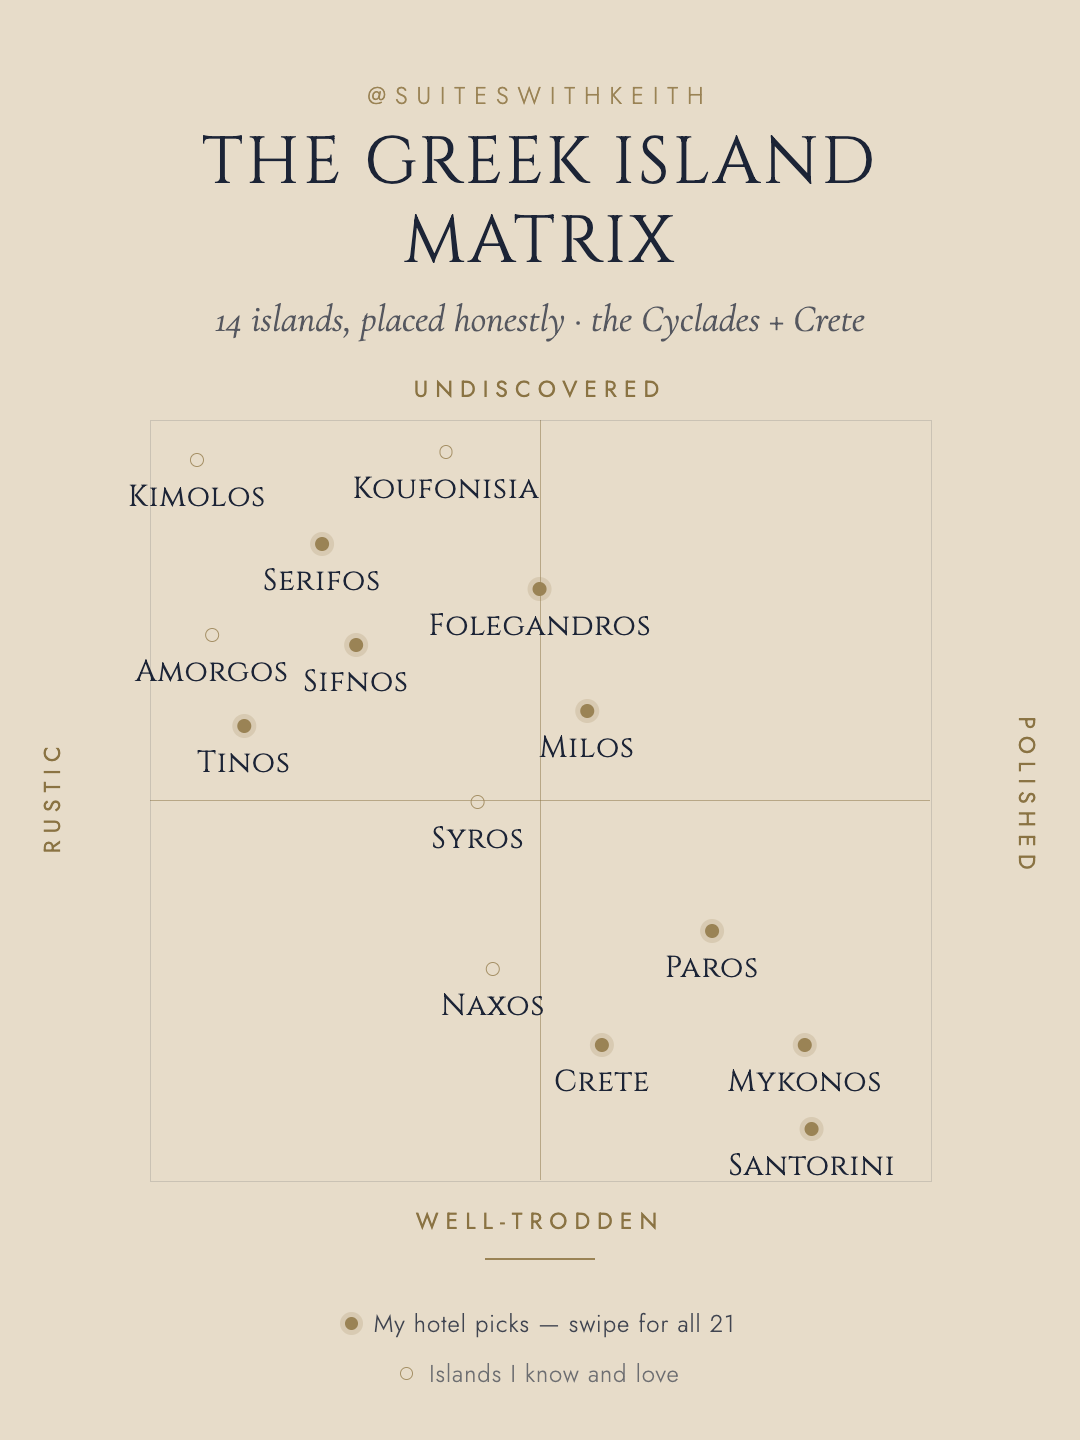
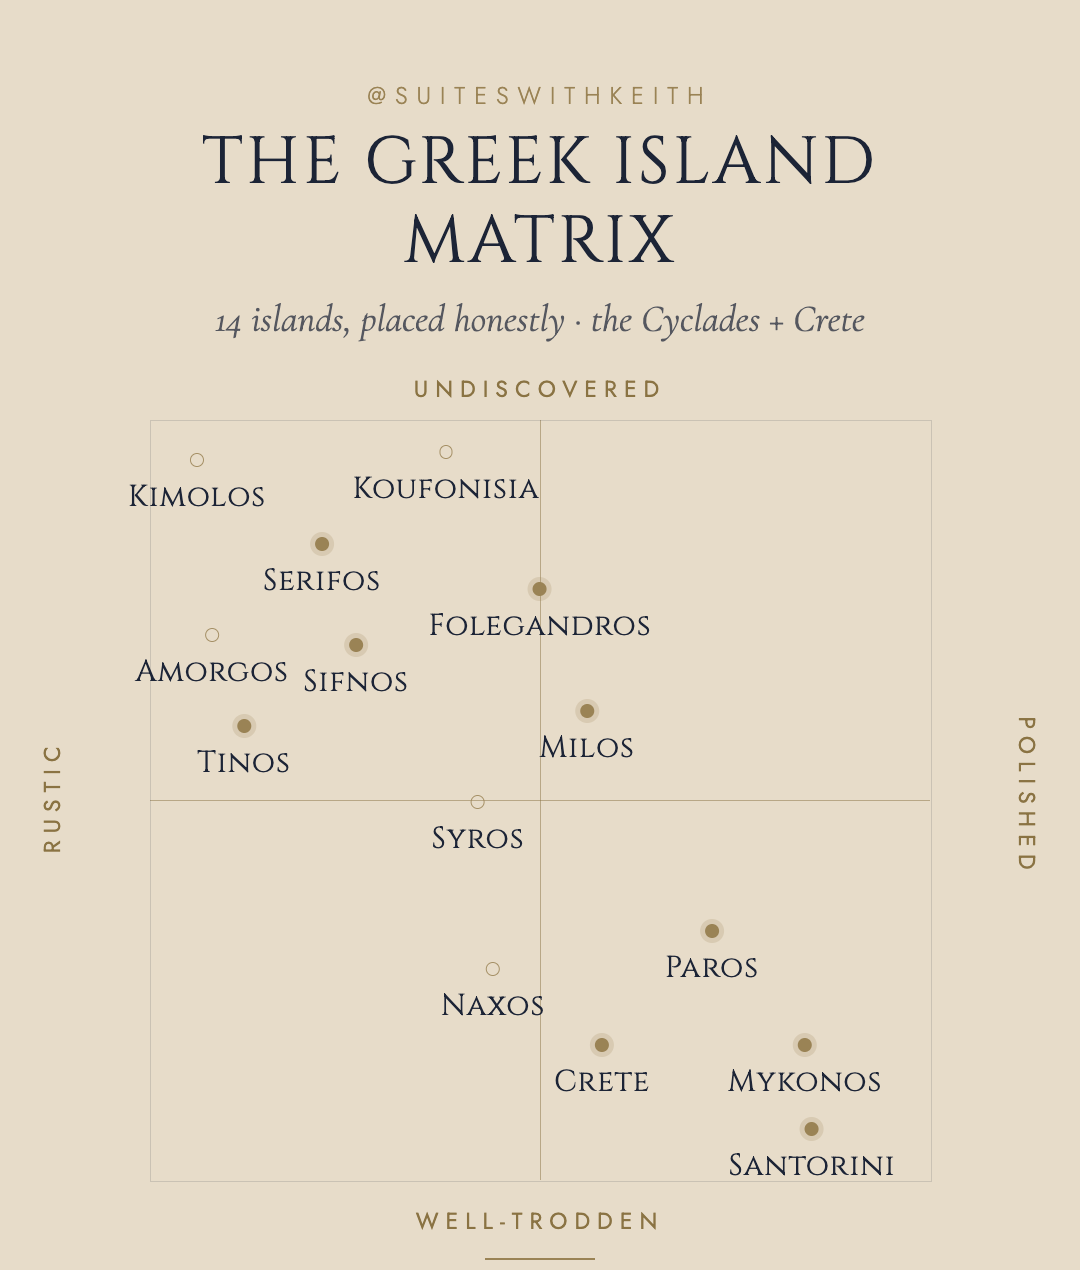
Crop IG legend off matrix graphic, add scroll note to caption

diff --git a/greek-island-matrix.html b/greek-island-matrix.html
@@ -156,7 +156,7 @@
 
     <figure style="margin-top:52px">
       <img src="images/islands/greek-island-matrix.png" alt="A chart placing fourteen Greek islands on two axes: rustic to polished, and undiscovered to well-trodden. Filled dots mark islands with a hotel recommendation." style="max-width:620px;margin:0 auto">
-      <figcaption style="text-align:center">Fourteen islands, placed honestly. Filled dots are islands where I have a hotel pick.</figcaption>
+      <figcaption style="text-align:center">Fourteen islands, placed honestly. Filled dots are islands where I have a hotel pick — scroll for all twenty-one.</figcaption>
     </figure>
 
     <h2>How to read it</h2>
